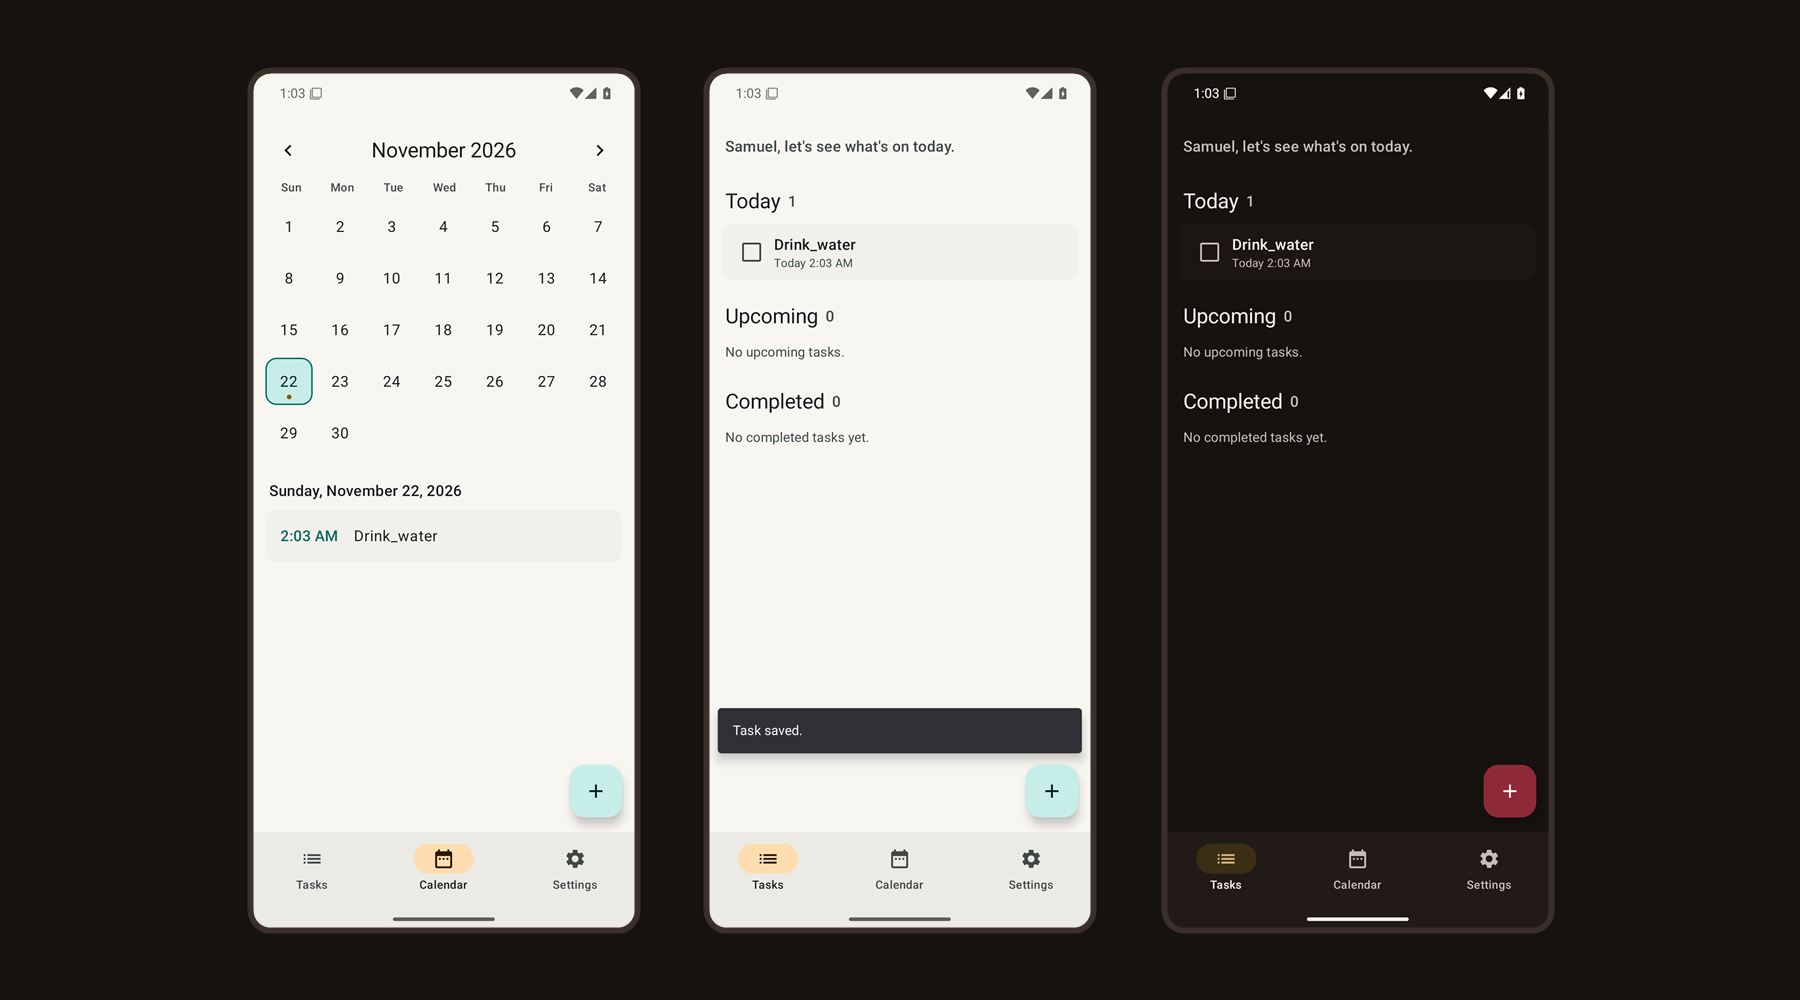
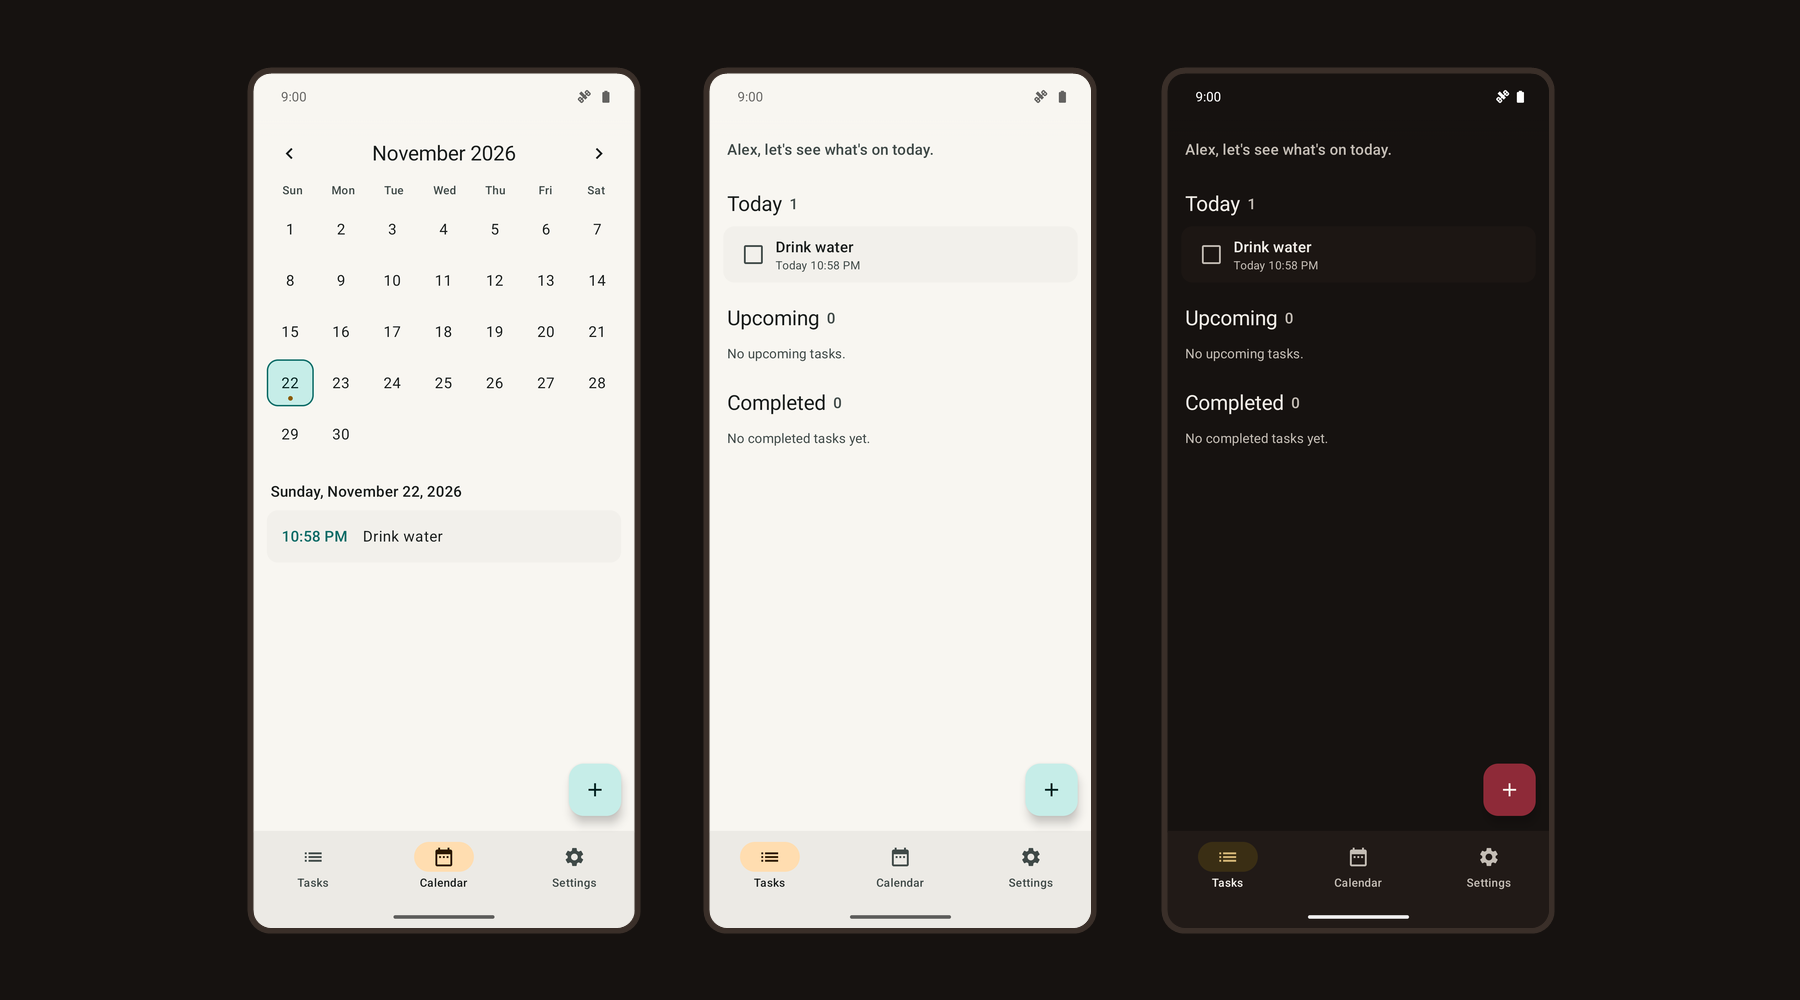
Refresh the README cover; 1.4.2

diff --git a/README.ru.md b/README.ru.md
@@ -29,7 +29,7 @@
 
 Kairos — приложение-напоминалка для Android на Kotlin и Jetpack Compose (Material 3). Оно не звенит один раз и замолкает: каждое напоминание превращается в небольшую цепочку нарастающих «липких» уведомлений в одном понятном и дружелюбном тоне. Доступно на английском, русском и турецком.
 
-**Установка:** скачайте `Kairos-1.4.1.apk` из [последнего релиза](https://github.com/Kw4nzah/Kairos/releases/latest), откройте на телефоне и при запросе разрешите установку из браузера или файлового менеджера. APK подписан отладочным ключом, поэтому Play Protect может попросить подтверждение.
+**Установка:** скачайте `Kairos-1.4.2.apk` из [последнего релиза](https://github.com/Kw4nzah/Kairos/releases/latest), откройте на телефоне и при запросе разрешите установку из браузера или файлового менеджера. APK подписан отладочным ключом, поэтому Play Protect может попросить подтверждение.
 
 
 ## Статус

diff --git a/README.tr.md b/README.tr.md
@@ -29,7 +29,7 @@
 
 Kairos, Kotlin ve Jetpack Compose (Material 3) ile yazılmış bir Android hatırlatıcı uygulamasıdır. Bir kez çalıp susmaz: her hatırlatma, tek bir net ve samimi tonda, giderek yükselen yapışkan bildirimlerden oluşan küçük bir zincire dönüşür. İngilizce, Rusça ve Türkçe kullanılabilir.
 
-**Kurulum:** [son sürümden](https://github.com/Kw4nzah/Kairos/releases/latest) `Kairos-1.4.1.apk` dosyasını indir, telefonda aç ve istenirse tarayıcın veya dosya yöneticin için bilinmeyen kaynaklardan kurulumuna izin ver. APK debug anahtarıyla imzalıdır, Play Protect onay isteyebilir.
+**Kurulum:** [son sürümden](https://github.com/Kw4nzah/Kairos/releases/latest) `Kairos-1.4.2.apk` dosyasını indir, telefonda aç ve istenirse tarayıcın veya dosya yöneticin için bilinmeyen kaynaklardan kurulumuna izin ver. APK debug anahtarıyla imzalıdır, Play Protect onay isteyebilir.
 
 
 ## Durum

diff --git a/README.md b/README.md
@@ -29,7 +29,7 @@
 
 Kairos is an Android reminder app written in Kotlin with Jetpack Compose (Material 3). It does not chime once and go quiet: every reminder becomes a small escalating chain of sticky notifications, in one clear, friendly tone. Available in English, Russian and Turkish.
 
-**Install:** download `Kairos-1.4.1.apk` from the [latest release](https://github.com/Kw4nzah/Kairos/releases/latest), open it on your phone and allow installs from your browser or file manager when asked. The APK is signed with a debug key, so Play Protect may ask for confirmation.
+**Install:** download `Kairos-1.4.2.apk` from the [latest release](https://github.com/Kw4nzah/Kairos/releases/latest), open it on your phone and allow installs from your browser or file manager when asked. The APK is signed with a debug key, so Play Protect may ask for confirmation.
 
 ## Status
 
